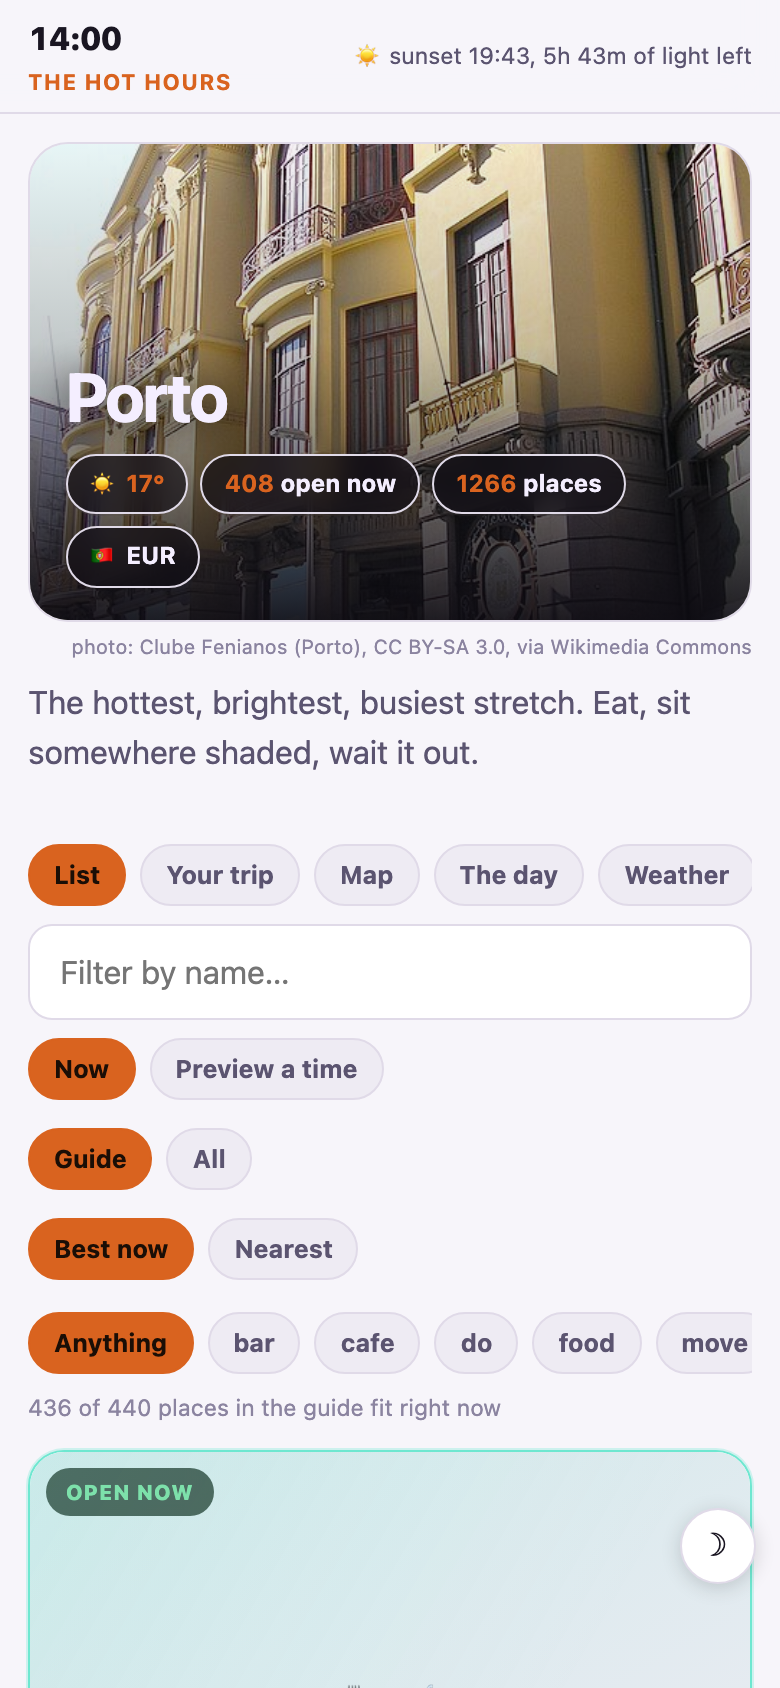
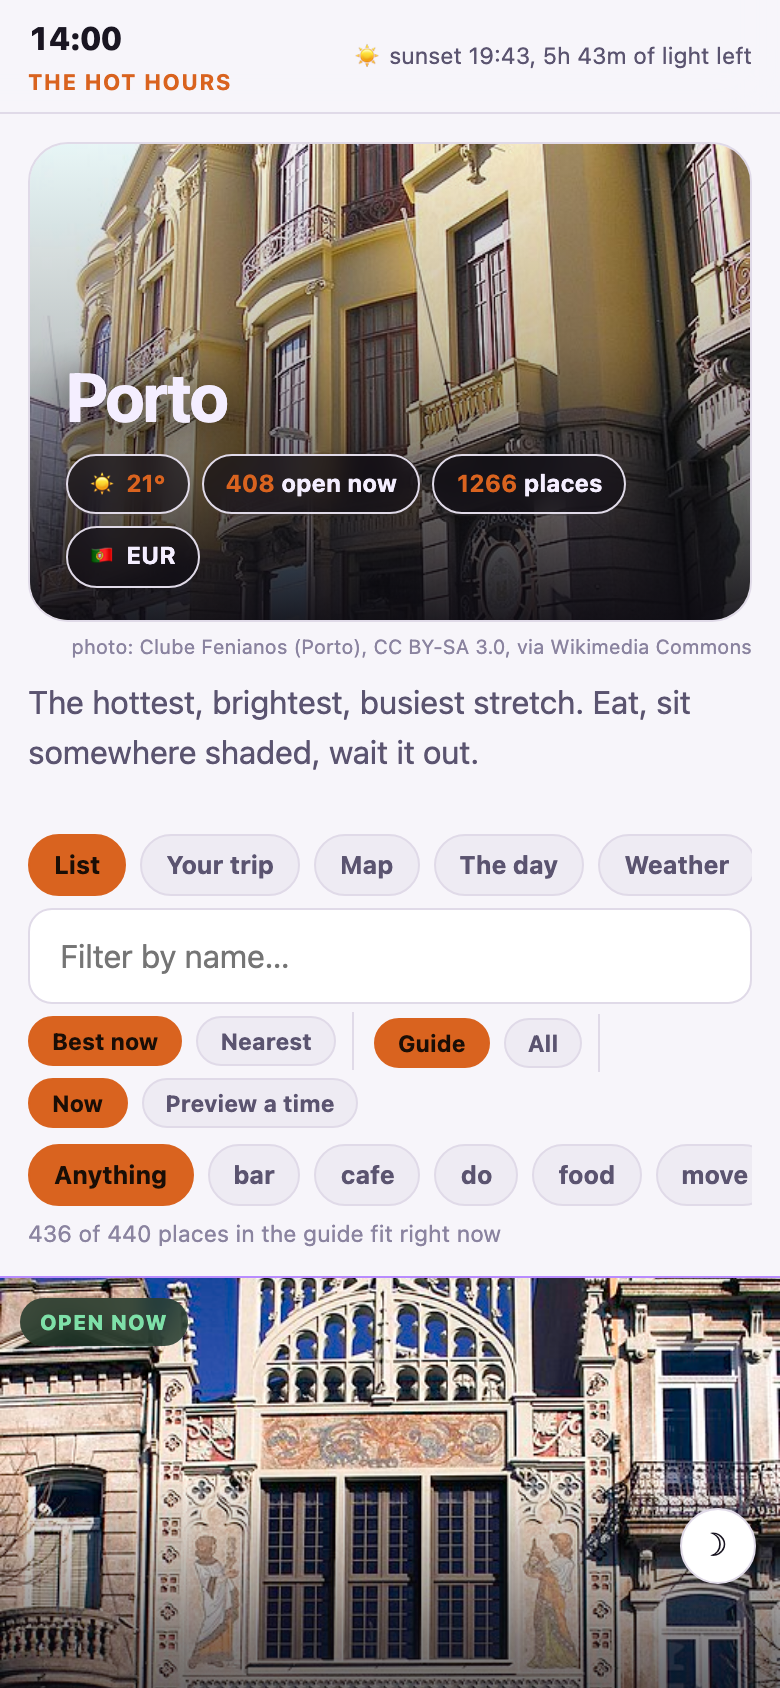
Rebuild the guide as a full-bleed photo feed (0.12.0)
Each place is now a full-width photograph with its name in large type and
its open/closed status on the image, the same visual language as the landing
and the town hero, replacing the boxed card that stacked a small photo over a
paragraph and a button row. On a phone the cards run edge to edge; from 560px
they become a rounded two-column grid. The three filter toggles are grouped
into one hairline-divided strip instead of three stacked rows.

Places that carry their own photo rank slightly higher (+8 exact, +4 nearby),
well below the hour/tag/open signals, so the feed opens on an image without a
well-shot place ever jumping one that is genuinely its hour. A photo that
404s degrades to a clean category tile instead of a broken-image icon.

Verified: JS/engine 226 pass, browser suite 180 pass (no broken image left
visible, no horizontal overflow at 360px). Python CLI tests unchanged.

diff --git a/docs/style.css b/docs/style.css
@@ -149,11 +149,22 @@ b,strong{color:var(--ink);font-weight:700}
 .rank.rn .num{background:var(--bg2);color:var(--dimmer);border:1px solid var(--line)}
 
 /* ---- chips ---- */
-.chips{display:flex;gap:7px;overflow-x:auto;padding:5px 0 var(--sp-4);-webkit-overflow-scrolling:touch;scrollbar-width:none}
+.chips{display:flex;gap:7px;overflow-x:auto;padding:4px 0 6px;-webkit-overflow-scrolling:touch;scrollbar-width:none}
 .chips::-webkit-scrollbar{display:none}
 .chip{flex:0 0 auto;background:var(--bg2);border:1px solid var(--line);color:var(--dim);
  border-radius:99px;padding:7px 12px;font-size:var(--fs-2);font-weight:700;cursor:pointer;white-space:nowrap;font-family:inherit}
 .chip[aria-pressed="true"]{background:var(--hot);border-color:var(--hot);color:#1a0e06}
+
+/* Guide controls: Sort, Guide/All and Now/Preview read as one quiet strip
+   instead of three stacked billboards, so the town photo and the first place
+   are not pushed below the fold by a wall of chips. Each stays its own labelled,
+   clickable group; only the vertical stacking is removed. Groups are divided by
+   a hairline rather than a whole row of their own. */
+.ctrls{display:flex;flex-wrap:wrap;align-items:center;gap:0 2px;margin-bottom:2px}
+.ctrls .chips{width:auto;padding:2px 0;margin:0}
+.ctrls .chips:not(:last-child){margin-right:8px;padding-right:8px;
+ border-right:1px solid var(--line)}
+.ctrls .chip{padding:5px 11px;font-size:var(--fs-1)}
 
 /* ---- badges ----
    Fixed dark text (#1a0e06) on the --hot/--gold accents is kept as-is: both
@@ -308,47 +319,66 @@ ul.tight li{margin-bottom:6px}
    price, tags, why, actions -- sits quieter underneath. #list is the grid: one
    column on a phone, two from 560px, never more, so a card never gets so
    narrow the photo stops meaning anything. */
-#list{display:grid;grid-template-columns:1fr;gap:var(--sp-6)}
-@media(min-width:560px){#list{grid-template-columns:1fr 1fr}}
+/* On a phone the feed breaks the page gutter and runs edge to edge, a continuous
+   stream of photographs the way a maps or stay app does; from 560px it becomes a
+   tidy rounded two-column grid where full-bleed would leave the cards too wide. */
+#list{display:grid;grid-template-columns:1fr;gap:4px;margin:0 -14px}
+@media(min-width:560px){#list{grid-template-columns:1fr 1fr;gap:var(--sp-6);margin:0}}
 
-.pc{display:flex;flex-direction:column;background:var(--card);border:1px solid var(--line);
- border-radius:18px;overflow:hidden;margin:0;position:relative;
+.pc{position:relative;display:flex;flex-direction:column;background:var(--card);
+ border:1px solid var(--line);border-left:0;border-right:0;border-radius:0;overflow:hidden;margin:0;
  transition:border-color .18s,transform .18s}
-.pc:active{transform:scale(.98)}
-.pc-top{border-color:var(--tint);box-shadow:0 0 0 1px color-mix(in srgb,var(--tint) 30%,transparent)}
-.pc-top:before{content:"";position:absolute;inset:0;pointer-events:none;z-index:1;
- background:linear-gradient(120deg,color-mix(in srgb,var(--tint) 9%,transparent),transparent 55%)}
-.pc-dim{opacity:.6}
+@media(min-width:560px){.pc{border:1px solid var(--line);border-radius:18px}}
+.pc:active{transform:scale(.99)}
+.pc-top{border-color:var(--tint)}
+.pc-top .pc-cap h3{font-size:30px}
+.pc-dim{opacity:.55}
 
-.pc-img{flex:0 0 auto;width:100%;aspect-ratio:4/3;position:relative;background:var(--bg2);overflow:hidden}
-.pc-img img{width:100%;height:100%;object-fit:cover;display:block}
+/* The photo IS the card. It fills a tall tile and the name plus the key meta sit
+   on it over a dark gradient, the same visual language as the town hero (.dhero)
+   and the landing. Everything under the image is secondary chrome. */
+.pc-img{position:relative;width:100%;aspect-ratio:3/2;background:var(--bg2);overflow:hidden}
+.pc-top .pc-img{aspect-ratio:4/3}
+.pc-img img{position:absolute;inset:0;width:100%;height:100%;object-fit:cover;display:block}
+.pc-img:before{content:"";position:absolute;inset:0;z-index:1;pointer-events:none;
+ background:linear-gradient(180deg,rgba(13,11,18,0) 34%,rgba(13,11,18,.5) 62%,rgba(13,11,18,.94) 100%)}
 .pc-img.pc-failed img{display:none}
-.pc-img.pc-failed,.pc-glyph{display:flex;align-items:center;justify-content:center;
- background:linear-gradient(150deg,color-mix(in srgb,var(--tint) 22%,var(--bg2)),var(--bg2))}
-.pc-glyph .pc-icon,.pc-failed:after{font-size:44px;line-height:1;opacity:.85}
-.pc-near{position:absolute;right:8px;bottom:8px;font-size:8.5px;font-weight:800;
+.pc-glyph{background:linear-gradient(150deg,color-mix(in srgb,var(--tint) 30%,var(--bg2)),var(--bg2))}
+.pc-icon{position:absolute;top:50%;left:50%;transform:translate(-50%,-50%);z-index:0;
+ font-size:52px;line-height:1;opacity:.5}
+.pc-near{position:absolute;right:10px;top:10px;z-index:2;font-size:8.5px;font-weight:800;
  letter-spacing:.4px;text-transform:uppercase;background:rgba(13,11,18,.78);
  color:var(--hero-dim);padding:3px 7px;border-radius:99px}
 
-/* The open/closed read: overlaid directly on the photo, always the same fixed
-   dark-glass chip regardless of theme, the same reasoning as .pc-near above --
-   it sits on a photograph, not on a themed card surface, so it needs its own
-   guaranteed contrast rather than a token tuned for --card. */
-.pc-badge{position:absolute;left:8px;top:8px;font-size:10.5px;font-weight:800;
+/* The open/closed read: a fixed dark-glass chip top-left on the photo, its own
+   guaranteed contrast regardless of theme (it sits on a photograph, not on the
+   themed card surface). */
+.pc-badge{position:absolute;left:10px;top:10px;z-index:2;font-size:10.5px;font-weight:800;
  letter-spacing:.4px;text-transform:uppercase;padding:4px 10px;border-radius:99px;
  backdrop-filter:blur(6px);background:rgba(13,11,18,.6);color:#f4eeff}
-.pc-badge.b-open{background:rgba(20,46,32,.72);color:#7ee0a8}
-.pc-badge.b-soon{background:rgba(51,38,18,.72);color:#ffc857}
-.pc-badge.b-shut{background:rgba(51,24,28,.72);color:#ff9aa2}
+.pc-badge.b-open{background:rgba(20,46,32,.78);color:#7ee0a8}
+.pc-badge.b-soon{background:rgba(51,38,18,.78);color:#ffc857}
+.pc-badge.b-shut{background:rgba(51,24,28,.78);color:#ff9aa2}
 
-.pc-body{flex:1;min-width:0;padding:var(--sp-5)}
-.pc-head{display:flex;align-items:baseline;gap:9px;justify-content:space-between}
-.pc-head h3{font-size:16px;margin:0;line-height:1.25;letter-spacing:-.3px}
-.pc-price{flex:0 0 auto;font-weight:800;font-size:12.5px;color:var(--cool);white-space:nowrap}
-.pc-tags{margin:7px 0 0;display:flex;flex-wrap:wrap;gap:0}
-.pc-why{margin:7px 0 0;font-size:13px;color:var(--dim);line-height:1.5}
+/* the caption, on the image */
+.pc-cap{position:absolute;left:0;right:0;bottom:0;z-index:2;padding:14px 14px 13px}
+.pc-cap h3{margin:0;font-size:21px;line-height:1.1;letter-spacing:-.6px;
+ color:var(--hero-ink);text-shadow:0 2px 18px rgba(0,0,0,.7)}
+.pc-top .pc-cap h3{font-size:25px}
+.pc-meta{display:flex;flex-wrap:wrap;align-items:center;gap:6px;margin-top:9px}
+.pc-meta .tag{margin:0;text-transform:none;font-size:11px;letter-spacing:0;border-radius:99px;
+ padding:3px 9px;background:rgba(13,11,18,.6);backdrop-filter:blur(6px);color:var(--hero-dim)}
+.pc-meta .tag.t-unv{color:#ffce8a}
+.pc-cap .pc-price{border-radius:99px;padding:3px 10px;font-size:11.5px;font-weight:800;
+ background:rgba(13,11,18,.6);backdrop-filter:blur(6px);color:var(--hot)}
+
+/* under the photo: quieter, the description and the actions */
+.pc-body{padding:11px 13px 12px}
+.pc-why{margin:0;font-size:12.5px;color:var(--dim);line-height:1.5;
+ display:-webkit-box;-webkit-line-clamp:2;-webkit-box-orient:vertical;overflow:hidden}
 .pc-warn{margin:6px 0 0;font-size:11.5px;color:var(--soft-red);line-height:1.45}
-@media(min-width:560px){.pc-head h3{font-size:16.5px}}
+.pc-body .btns{margin-top:9px}
+.pc-body .src-badge{align-self:center;margin-left:2px}
 
 /* ============ destination hero ============
    The town's own photo is now the actual hero of the page, not a dimmed wash

diff --git a/docs/app.js b/docs/app.js
@@ -876,21 +876,29 @@ function card(r, i) {
   const icon = CAT_ICON[p.cat] || "\u{1F4CD}";
   const dim = st.state === "shut";
 
+  // The caption rides on the photo, the same visual language as the town hero
+  // (.dhero) and the landing: a big name and the key meta over a dark gradient,
+  // so each card reads as a photograph first and a data row second. This is the
+  // photo-feed redesign; everything below the image (why, actions) is secondary.
+  const cap = `<div class="pc-cap">
+        <h3>${esc(p.name)}</h3>
+        <div class="pc-meta">${distTag}${p.dur ? `<span class="tag t-info">${dur(p.dur)}</span>` : ""}${price ? `<span class="pc-price">${esc(price)}</span>` : ""}${p.loose ? '<span class="tag t-unv">pin approx</span>' : ""}</div>
+      </div>`;
+
+  // The glyph sits behind the photo always, so if the image 404s the onerror can
+  // just drop the img and add pc-glyph: the category icon is already there to show
+  // through, and a failed photo degrades to a clean tinted tile with an icon, never
+  // the browser's broken-image placeholder. This matters now that photos rank first.
   const media = safeUrl(p.photo)
-    ? `<div class="pc-img">${badge}<img src="${esc(safeUrl(p.photo))}" loading="lazy" decoding="async"
+    ? `<div class="pc-img">${badge}<span class="pc-icon">${icon}</span><img src="${esc(safeUrl(p.photo))}" loading="lazy" decoding="async"
          alt="${esc(p.name)}" onerror="this.closest('.pc-img').classList.add('pc-glyph');this.remove()">
-       ${p.photoExact ? "" : '<span class="pc-near">nearby</span>'}</div>`
-    : `<div class="pc-img pc-glyph">${badge}<span class="pc-icon">${icon}</span></div>`;
+       ${p.photoExact ? "" : '<span class="pc-near">nearby</span>'}${cap}</div>`
+    : `<div class="pc-img pc-glyph">${badge}<span class="pc-icon">${icon}</span>${cap}</div>`;
 
   return `<article class="pc${i === 0 ? " pc-top" : ""}${dim ? " pc-dim" : ""}" style="--tint:${tint}">
     ${media}
     <div class="pc-body">
-      <div class="pc-head">
-        <h3>${esc(p.name)}</h3>
-        ${price ? `<span class="pc-price">${price}</span>` : ""}
-      </div>
-      <div class="pc-tags">${distTag}${p.dur ? `<span class="tag t-info">${dur(p.dur)}</span>` : ""}${p.loose ? '<span class="tag t-unv">pin approx</span>' : ""}${src}</div>
-      ${p.why ? `<p class="pc-why">${esc(p.why).slice(0, 260)}</p>` : ""}
+      ${p.why ? `<p class="pc-why">${esc(p.why).slice(0, 160)}</p>` : ""}
       ${p.warn ? `<p class="pc-warn">\u26A0 ${esc(p.warn)}</p>` : ""}
       ${r.why && r.why.length ? `<div class="why">\u2192 ${esc(r.why[0])}</div>` : ""}
       <div class="btns">
@@ -898,6 +906,7 @@ function card(r, i) {
         <a class="btn g" target="_blank" rel="noopener" href="${o}">${p.loose ? "Find it" : "Walk there"}</a>
         <a class="btn" target="_blank" rel="noopener" href="${g}">Google</a>
         ${safeUrl(p.website) ? `<a class="btn b" target="_blank" rel="noopener noreferrer" href="${esc(safeUrl(p.website))}">Website</a>` : ""}
+        ${src}
       </div>
     </div>
   </article>`;

diff --git a/docs/index.html b/docs/index.html
@@ -45,7 +45,7 @@ try {
  "applicationCategory": "TravelApplication",
  "operatingSystem": "Any (runs in a web browser; installable as a Progressive Web App)",
  "browserRequirements": "Requires JavaScript. A town you have already opened works with no signal; searching a new town needs a connection.",
- "softwareVersion": "0.11.2",
+ "softwareVersion": "0.12.0",
  "isAccessibleForFree": true,
  "offers": {
   "@type": "Offer",
@@ -344,13 +344,15 @@ try {
 
     <div id="vList">
       <input class="search" id="filter" type="search" placeholder="Filter by name…" aria-label="Filter" style="margin-bottom:4px">
-      <div class="chips" id="whenMode" aria-label="Now or a chosen time"></div>
+      <div class="ctrls">
+        <div class="chips" id="sortMode" aria-label="Sort"></div>
+        <div class="chips" id="listMode" aria-label="Guide or all"></div>
+        <div class="chips" id="whenMode" aria-label="Now or a chosen time"></div>
+      </div>
       <div class="when-picker" id="whenPicker" hidden>
         <input type="time" id="whenTime" aria-label="Preview time">
         <div class="chips" id="whenDays" aria-label="Preview day of week"></div>
       </div>
-      <div class="chips" id="listMode" aria-label="Guide or all"></div>
-      <div class="chips" id="sortMode" aria-label="Sort"></div>
       <div class="chips" id="cats"></div>
       <p class="tiny" id="count"></p>
       <div id="list"></div>

diff --git a/docs/engine.js b/docs/engine.js
@@ -290,6 +290,13 @@ function score(p, t, phase) {
 
   if ((p.lo === 0 || p.lo === null) && (p.hi === 0 || p.hi === null)) s += 6;
 
+  // The guide is a photo feed now, and a feed that opens on a blank tile reads as
+  // broken. A place carrying its own photograph gets a small nudge, well under the
+  // hour (+42), tag (+13) and open (+12) signals, so images lead the list without a
+  // well-shot but wrong-hour place ever jumping one that is genuinely its hour. A
+  // "nearby" photo (not of this exact place) is trusted less, so it is nudged less.
+  if (p.photo && p.photoExact) s += 8; else if (p.photo) s += 4;
+
   // Open data has no opinion in it. Without that guard an open pharmacy outranks a
   // shut cathedral, which is true and useless.
   if (["practical", "move", "hub", "stay"].indexOf(p.cat) >= 0) s -= 34;

diff --git a/tripkit/__init__.py b/tripkit/__init__.py
@@ -1,2 +1,2 @@
 """tripkit - turn a trip spec into a time-driven static travel site."""
-__version__ = "0.11.2"
+__version__ = "0.12.0"

diff --git a/CHANGELOG.md b/CHANGELOG.md
@@ -5,6 +5,29 @@ All notable changes to this project are documented here.
 The format follows [Keep a Changelog](https://keepachangelog.com/en/1.1.0/),
 and this project uses [Semantic Versioning](https://semver.org/spec/v2.0.0.html).
 
+## [0.12.0] - 2026-09-11
+
+### Changed
+- **The guide screen is rebuilt as a full-bleed photo feed.** Each place is now a
+  full-width photograph with its name in large type and its open/closed status set
+  directly on the image, the same visual language as the landing and the town hero,
+  replacing the older boxed card that stacked a small photo over a description
+  paragraph and a row of buttons. On a phone the cards run edge to edge as one
+  continuous stream; from 560px they become a rounded two-column grid. The three
+  filter toggles (sort, guide/all, now/preview) are grouped into one
+  hairline-divided strip instead of three stacked rows.
+- **A place that carries its own photograph ranks slightly higher**, so the feed
+  opens on an image rather than a blank tile. The nudge (+8 for an exact photo, +4
+  for a nearby one) sits well below the hour (+42), tag (+13) and open (+12)
+  signals, so a well-shot place never jumps one that is genuinely its hour; only a
+  roughly-tied place is reordered.
+
+### Fixed
+- **A place whose photo fails to load now degrades to a clean category tile**
+  rather than the browser's broken-image placeholder: the category glyph sits
+  behind every photo, so dropping a 404ing image reveals it. This matters more now
+  that photos rank first.
+
 ## [0.11.2] - 2026-09-11
 
 ### Fixed
